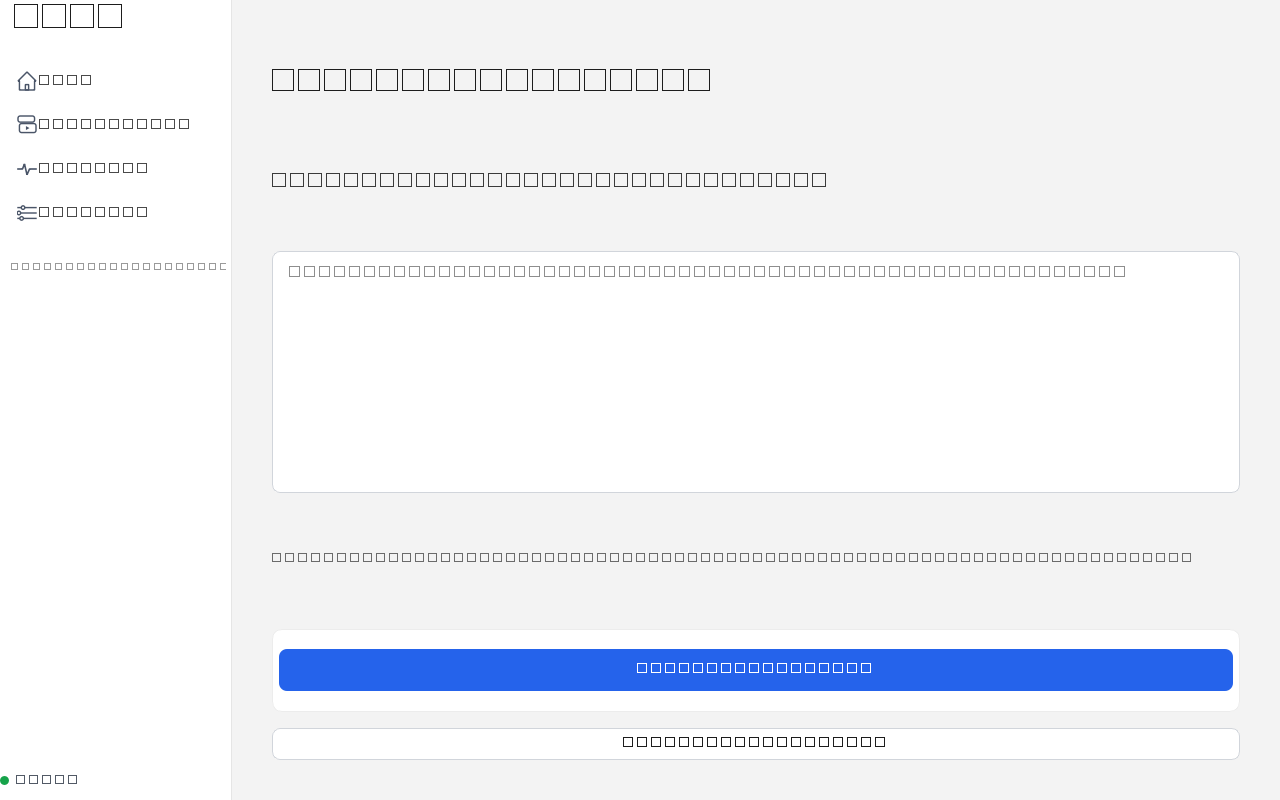
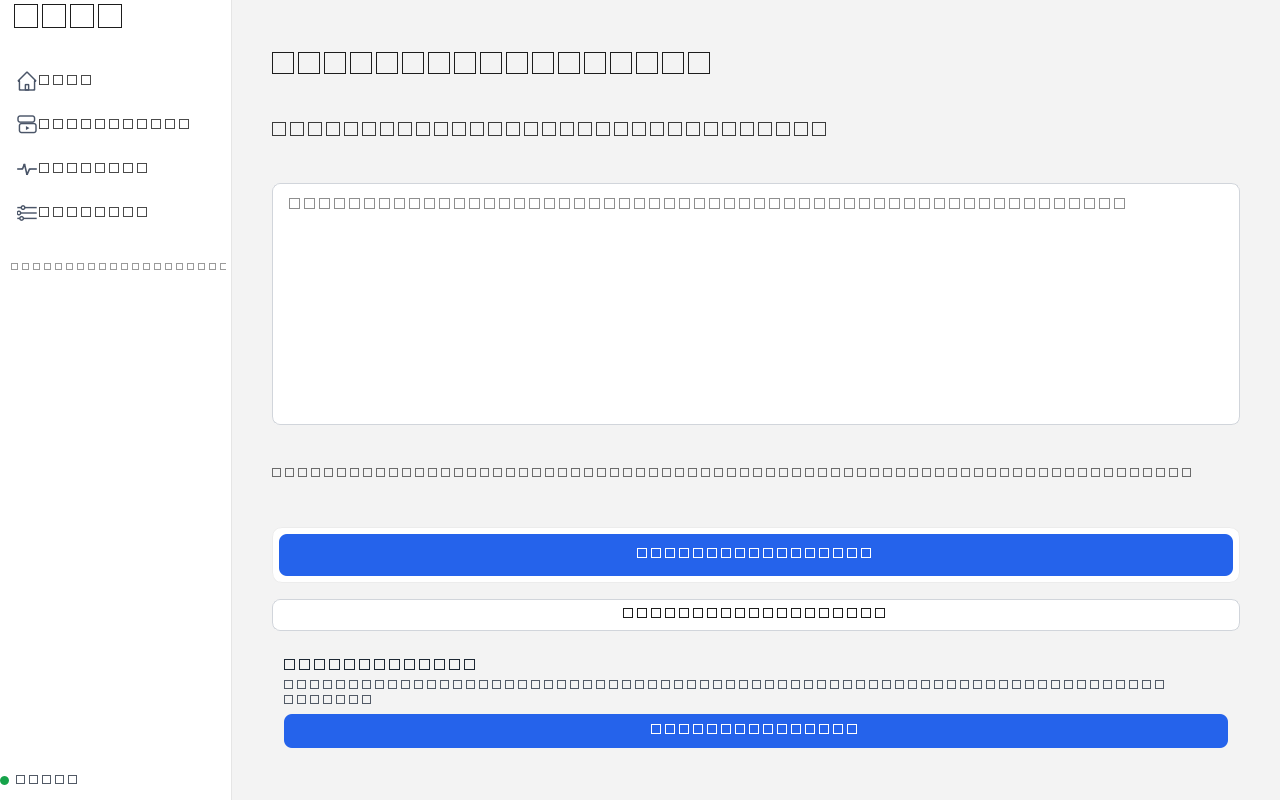
feat(ui): expose task recording in create flow

diff --git a/ui/pages/create_automation.py b/ui/pages/create_automation.py
@@ -22,6 +22,10 @@ from ui.strings import (
     CREATE_NOT_AVAILABLE_TITLE,
     CREATE_PLACEHOLDER,
     CREATE_QUESTION,
+    CREATE_RECORD_BODY,
+    CREATE_RECORD_START,
+    CREATE_RECORD_STOP,
+    CREATE_RECORD_TITLE,
     CREATE_TITLE,
 )
 from ui.styles import SPACING_LG, SPACING_MD, SPACING_SM, SPACING_XL
@@ -32,6 +36,8 @@ class CreateAutomationPage(QWidget):
 
     task_entered = Signal(str)
     editor_requested = Signal()
+    record_requested = Signal()
+    stop_record_requested = Signal()
 
     def __init__(self, parent: QWidget | None = None):
         super().__init__(parent)
@@ -39,6 +45,8 @@ class CreateAutomationPage(QWidget):
         self._description_input: QTextEdit | None = None
         self._create_button: QPushButton | None = None
         self._scratch_button: QPushButton | None = None
+        self._record_button: QPushButton | None = None
+        self._stop_record_button: QPushButton | None = None
         self._init_ui()
 
     def _init_ui(self) -> None:
@@ -86,6 +94,38 @@ class CreateAutomationPage(QWidget):
         self._scratch_button.setObjectName("secondaryActionButton")
         self._scratch_button.clicked.connect(self._open_scratch_editor)
         layout.addWidget(self._scratch_button)
+        self._record_card = QFrame(self)
+        self._record_card.setObjectName("recordCard")
+        record_layout = QVBoxLayout(self._record_card)
+        record_layout.setContentsMargins(SPACING_MD, SPACING_MD, SPACING_MD, SPACING_MD)
+        record_title = QLabel(CREATE_RECORD_TITLE, self._record_card)
+        record_title.setObjectName("cardTitle")
+        record_body = QLabel(CREATE_RECORD_BODY, self._record_card)
+        record_body.setObjectName("cardBody")
+        record_body.setWordWrap(True)
+        record_layout.addWidget(record_title)
+        record_layout.addWidget(record_body)
+        record_actions = QHBoxLayout()
+        self._record_button = QPushButton(CREATE_RECORD_START, self._record_card)
+        self._record_button.setObjectName("primaryActionButton")
+        self._record_button.clicked.connect(self.record_requested.emit)
+        self._stop_record_button = QPushButton(CREATE_RECORD_STOP, self._record_card)
+        self._stop_record_button.setObjectName("secondaryActionButton")
+        self._stop_record_button.clicked.connect(self.stop_record_requested.emit)
+        self._stop_record_button.hide()
+        record_actions.addWidget(self._record_button)
+        record_actions.addWidget(self._stop_record_button)
+        record_layout.addLayout(record_actions)
+        layout.addWidget(self._record_card)
+
+    def set_recording_state(self, active: bool, message: str | None = None) -> None:
+        """Reflect the real recorder lifecycle without implying draft execution."""
+        if self._record_button is not None:
+            self._record_button.setEnabled(not active)
+        if self._stop_record_button is not None:
+            self._stop_record_button.setVisible(active)
+        if message and self._banner is not None:
+            self._banner.show_message("info" if active else "success", CREATE_RECORD_TITLE, message)
 
     def show_not_available(self, task_text: str) -> None:
         """Answer a typed description honestly on the page banner."""

diff --git a/ui/shell.py b/ui/shell.py
@@ -2,6 +2,7 @@
 
 from __future__ import annotations
 
+import time
 from pathlib import Path
 from typing import override
 
@@ -47,6 +48,8 @@ from ui.pages import (
 )
 from ui.strings import (
     APP_TITLE,
+    CREATE_RECORDING_ACTIVE,
+    CREATE_RECORDING_SAVED,
     DEMO_FAILED_TITLE,
     DEMO_FINISHED_BODY,
     DEMO_FINISHED_TITLE,
@@ -248,6 +251,8 @@ class MainWindow(QMainWindow):
         self.my_automations_page.opened_workflow.connect(self._open_workflow)
         self.create_automation_page.task_entered.connect(self._handle_task_entered)
         self.create_automation_page.editor_requested.connect(self._show_editor)
+        self.create_automation_page.record_requested.connect(self._start_recording)
+        self.create_automation_page.stop_record_requested.connect(self._stop_recording)
         self.editor_page.saved.connect(self._editor_saved)
         self.editor_page.cancelled.connect(self._show_create_automation)
         self.review_page.cancelled.connect(self._on_review_cancelled)
@@ -377,6 +382,32 @@ class MainWindow(QMainWindow):
         user a workflow that cannot run.
         """
         self.create_automation_page.show_not_available(text)
+
+    def _start_recording(self) -> None:
+        if self._recording_service is None:
+            self.create_automation_page.show_not_available(
+                "Recording is not configured for this application."
+            )
+            return
+        try:
+            self._recording_service.start(f"recording-{time.time_ns()}")
+        except RuntimeError as error:
+            self.create_automation_page.show_not_available(str(error))
+            return
+        self.create_automation_page.set_recording_state(True, CREATE_RECORDING_ACTIVE)
+
+    def _stop_recording(self) -> None:
+        if self._recording_service is None or not self._recording_service.recording:
+            return
+        try:
+            recording = self._recording_service.stop()
+        except RuntimeError as error:
+            self.create_automation_page.show_not_available(str(error))
+            return
+        self.create_automation_page.set_recording_state(
+            False,
+            f"{CREATE_RECORDING_SAVED} ({len(recording.events)} events captured).",
+        )
 
     def _on_review_cancelled(self) -> None:
         self._show_page(ShellPages.HOME)

diff --git a/tests/test_shell.py b/tests/test_shell.py
@@ -17,12 +17,26 @@ from PySide6.QtWidgets import (
     QToolButton,
 )
 
+from controller.recording import RecordingService
 from controller.service import WorkflowService
 from engine.workflow import StepKind, Workflow, WorkflowStep
+from integrations.recorder import EventSink
+from recorder.models import RecordedEvent, RecordedEventKind
 from ui.components.spacer import Spacer
 from ui.shell import MainWindow, ShellPages
 
 UI_ROOT = Path(__file__).resolve().parents[1] / "ui"
+
+
+class FakeRecorder:
+    def __init__(self, sink: EventSink) -> None:
+        self._sink = sink
+
+    def start(self) -> None:
+        self._sink.append(RecordedEvent(1, 1, RecordedEventKind.MOUSE_CLICK, x=10, y=20))
+
+    def stop(self) -> None:
+        return None
 
 
 @pytest.fixture
@@ -118,6 +132,32 @@ def test_create_from_scratch_clears_description_unavailable_banner(qtbot, window
     qtbot.mouseClick(page._scratch_button, Qt.MouseButton.LeftButton)
 
     assert page._banner.isHidden()
+
+
+def test_create_page_records_a_task_through_the_real_service(qtbot, tmp_path):
+    recording_service = RecordingService(
+        tmp_path / "recordings",
+        recorder_factory=FakeRecorder,
+    )
+    window = MainWindow(
+        service=WorkflowService(workflow_directory=tmp_path / "workflows"),
+        recording_service=recording_service,
+    )
+    qtbot.addWidget(window)
+    window.show()
+    window._show_create_automation()
+    page = window.create_automation_page
+
+    qtbot.mouseClick(page._record_button, Qt.MouseButton.LeftButton)
+    assert recording_service.recording
+    assert page._stop_record_button.isVisible()
+    assert "Recording is active" in page._banner.body_text
+
+    qtbot.mouseClick(page._stop_record_button, Qt.MouseButton.LeftButton)
+    assert not recording_service.recording
+    assert page._record_button.isEnabled()
+    assert "Recording saved locally" in page._banner.body_text
+    assert recording_service.list_recordings()
 
 
 def test_sidebar_active_state_after_sidebar_click(qtbot, window):

diff --git a/ui/strings.py b/ui/strings.py
@@ -108,6 +108,14 @@ CREATE_NOT_AVAILABLE_BODY = (
     " Nothing was created. You can open a saved automation on My automations;"
     " building automations arrives with the visual editor."
 )
+CREATE_RECORD_TITLE = "Record a task"
+CREATE_RECORD_BODY = "Show Once what to do. Recording saves a redacted local event log for review."
+CREATE_RECORD_START = "Start recording"
+CREATE_RECORD_STOP = "Stop recording"
+CREATE_RECORDING_ACTIVE = "Recording is active. Perform the task, then choose Stop recording."
+CREATE_RECORDING_SAVED = (
+    "Recording saved locally. It still needs review before it can become runnable steps."
+)
 RUN_CANCELLED_MESSAGE = "The run was cancelled before it finished."
 
 # --- Editor -----------------------------------------------------------------

diff --git a/docs/PROGRESS.md b/docs/PROGRESS.md
@@ -48,6 +48,7 @@ spec files (`docs/specs/visual_workflow_editor.md`, reference PNG) are MISSING
 | A2c-polish | Screenshot-driven UI polish | DONE | slice/a2c-undo-save 59f7605: visible editor action styles, cleared scratch banner, taller Home demo card; focused 33 passed; full verify 462 passed/2 skipped on rerun (one prior full-suite review test failure passed isolated and on rerun) |
 | A2d | Interactive canvas navigation and layout persistence | DONE | slice/a2c-undo-save d5d1cb4 (includes 1d3ccd1): bounded 25%-200% zoom, hand-pan, fit-to-screen, minimap, draggable nodes, saved positions through controller/storage; focused 35 passed; full verify 465 passed/2 skipped |
 | A2e | Editor empty-state and terminal UX correction | DONE | slice/a2c-undo-save: fixed Start/Finish are explained as non-editable, Add step is prominent, empty inspector gives next action, terminal labels/contrast improved; focused 24 passed; full verify 467 passed/2 skipped |
+| A2f | Recorder discoverability in create flow | DONE | slice/a2c-undo-save: real RecordingService start/stop controls, active/saved state, local persistence, truthful review-required message; focused 4 passed; full verify 468 passed/2 skipped |
 | P5 | Recording → editor (slice/p5-recording-editor) | TODO | |
 | P6 | Run + review (slice/p6-run-review) | TODO | includes review.py defects D12/D13 |
 | P7 | Branching (slice/p7-branching) | PARKED | PARKED.md PARKED-1; Add-decision hidden |

diff --git a/docs/ai_engineering_log.md b/docs/ai_engineering_log.md
@@ -1272,3 +1272,18 @@ Append-only. Format per AGENTS.md. Human fills in the "Human review" line.
   tests passed, and `ALL CHECKS PASSED`.
 - Outcome: PASSED
 - Human review:
+
+## 2026-11-01 — A2f: recorder discoverability in create flow   (commit: pending)
+- Task: expose the existing local recorder from the first-time create flow
+  without pretending a raw event log is an executable workflow.
+- AI contribution: added Start/Stop recording controls, active/saved state
+  messaging, shell wiring to RecordingService, and deterministic fake-recorder
+  coverage.
+- Defect found: the redesigned shell had a real RecordingService but no
+  reachable recorder control; its advertised Record a task capability was
+  absent from the UI.
+- Verification: focused recording tests printed `4 passed`; detector returned
+  `[]`; `scripts/verify.ps1` printed `468 passed, 2 skipped`, Ruff and
+  formatting passed, both smoke tests passed, and `ALL CHECKS PASSED`.
+- Outcome: PASSED
+- Human review:

diff --git a/docs/AUTONOMOUS_DECISIONS.md b/docs/AUTONOMOUS_DECISIONS.md
@@ -396,3 +396,15 @@ Format per item: id, date, question, options, choice, reason.
 - Reason: terminals are not persisted workflow steps and must not pretend to
   be editable. The user can now discover the real creation path without
   changing the workflow model or validation rules.
+
+## AD-027 — 2026-11-01 — Recorder entry point and draft boundary
+
+- Question: how should the shell expose recording without falsely claiming that
+  raw screen events are already executable automation steps?
+- Choice: add Start recording and Stop recording to the create flow, persist
+  through the existing RecordingService, and explicitly state that the saved
+  recording still needs review before becoming runnable steps.
+- Reason: the recorder is a real local capability, but converting observations
+  into executable steps requires the existing analysis/proposal boundary and
+  approval. Fabricating nodes directly from clicks would violate the
+  untrusted-draft and safety contract.
